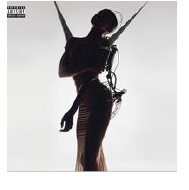
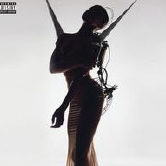
image input

Changed region(s): [[0.0, 0.0, 1.0, 1.0], [0.8133, 0.5723, 1.0, 0.9639]]

diff --git a/src/app/sounds/sounds.component.html b/src/app/sounds/sounds.component.html
@@ -116,42 +116,54 @@
     <h1>Staff Pick</h1>
 
     <div class="pick"> 
-      <div class="pick__img"></div>
+      <div class="pick__img">
+        <img src="./../../assets//2x//album01.png">
+      </div>
       <div class="desc__box">
         <p class="desc01">Nice For What</p>
         <p class="desc02">Drake - Nice For What - Single</p>
       </div>
     </div>
     <div class="pick"> 
-      <div class="pick__img"></div>
+      <div class="pick__img">
+        <img src="./../../assets//2x//album02.png">
+      </div>
       <div class="desc__box">
         <p class="desc01">I Like It</p>
         <p class="desc02">Cardi B, Bad Bunny & J Balvin -...</p>
       </div>
     </div>
     <div class="pick"> 
-      <div class="pick__img"></div>
+      <div class="pick__img">
+        <img src="./../../assets//2x//album03.png">
+      </div>
       <div class="desc__box">
         <p class="desc01">Get Along</p>
         <p class="desc02">Kenny Chesney - Get Along - S...</p>
       </div>
     </div>
     <div class="pick"> 
-      <div class="pick__img"></div>
+      <div class="pick__img">
+        <img src="./../../assets//2x//album04.png">
+      </div>
       <div class="desc__box">
         <p class="desc01">Nice For What</p>
         <p class="desc02">Drake - Nice For What - Single</p>
       </div>
     </div>
     <div class="pick"> 
-      <div class="pick__img"></div>
+      <div class="pick__img">
+        <img src="./../../assets//2x//album05.png">
+      </div>
       <div class="desc__box">
         <p class="desc01">I Like It</p>
         <p class="desc02">Cardi B, Bad Bunny & J Balvin -...</p>
       </div>
     </div>
     <div class="pick"> 
-      <div class="pick__img"></div>
+      <div class="pick__img">
+        <img src="./../../assets//2x//album06.png">
+      </div>
       <div class="desc__box">
         <p class="desc01">Get Along</p>
         <p class="desc02">Kenny Chesney - Get Along - S...</p>

diff --git a/src/app/sounds/sounds.component.scss b/src/app/sounds/sounds.component.scss
@@ -154,6 +154,9 @@
         height: 42px;
         background-color: $blue;
         margin-right: 8px;
+        img {
+            width: 100%;
+        }
     }
 
     .desc__box {
